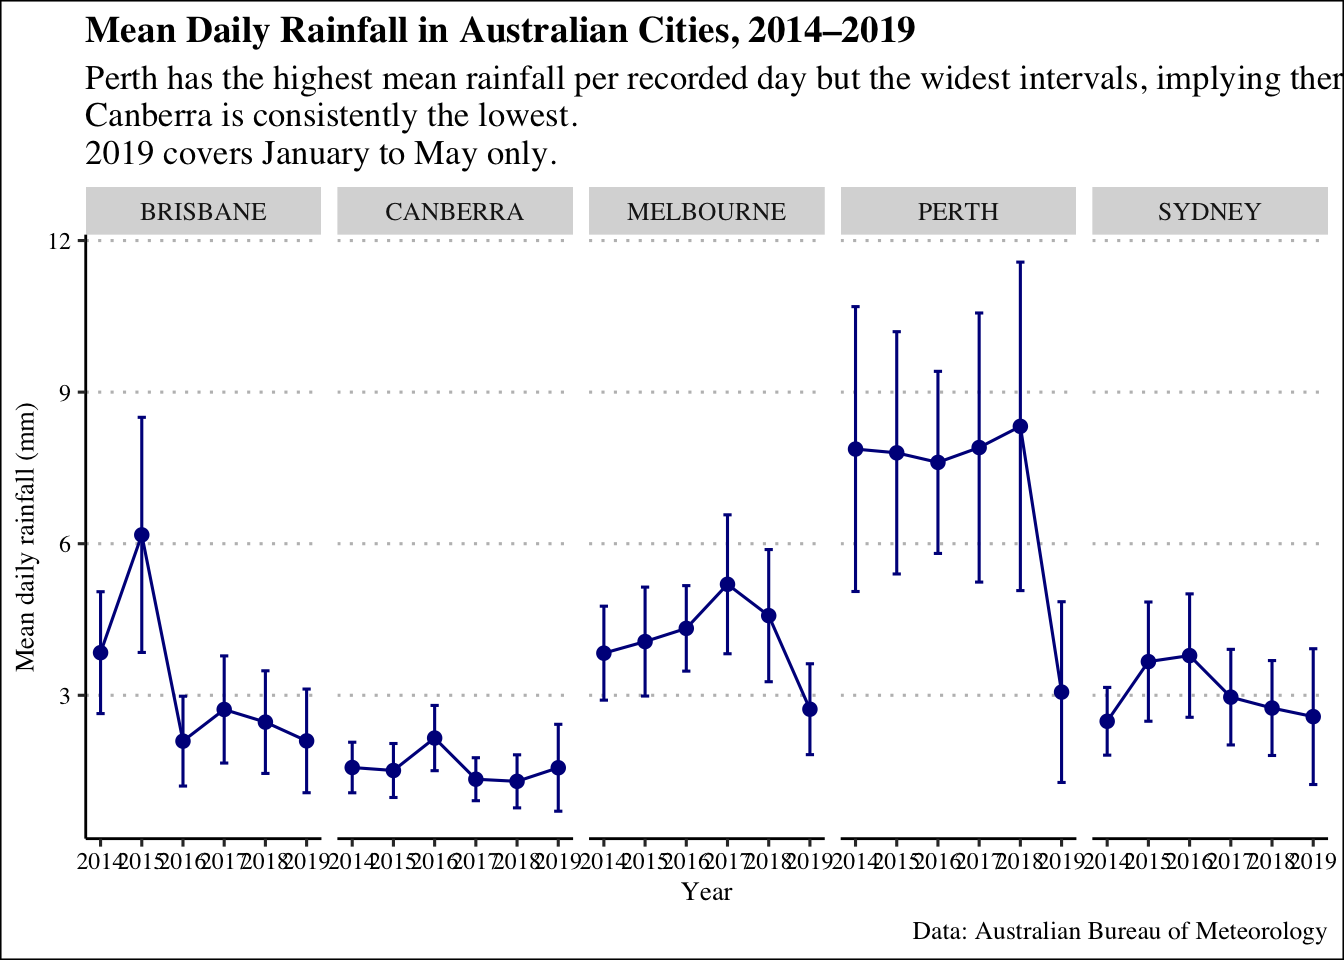
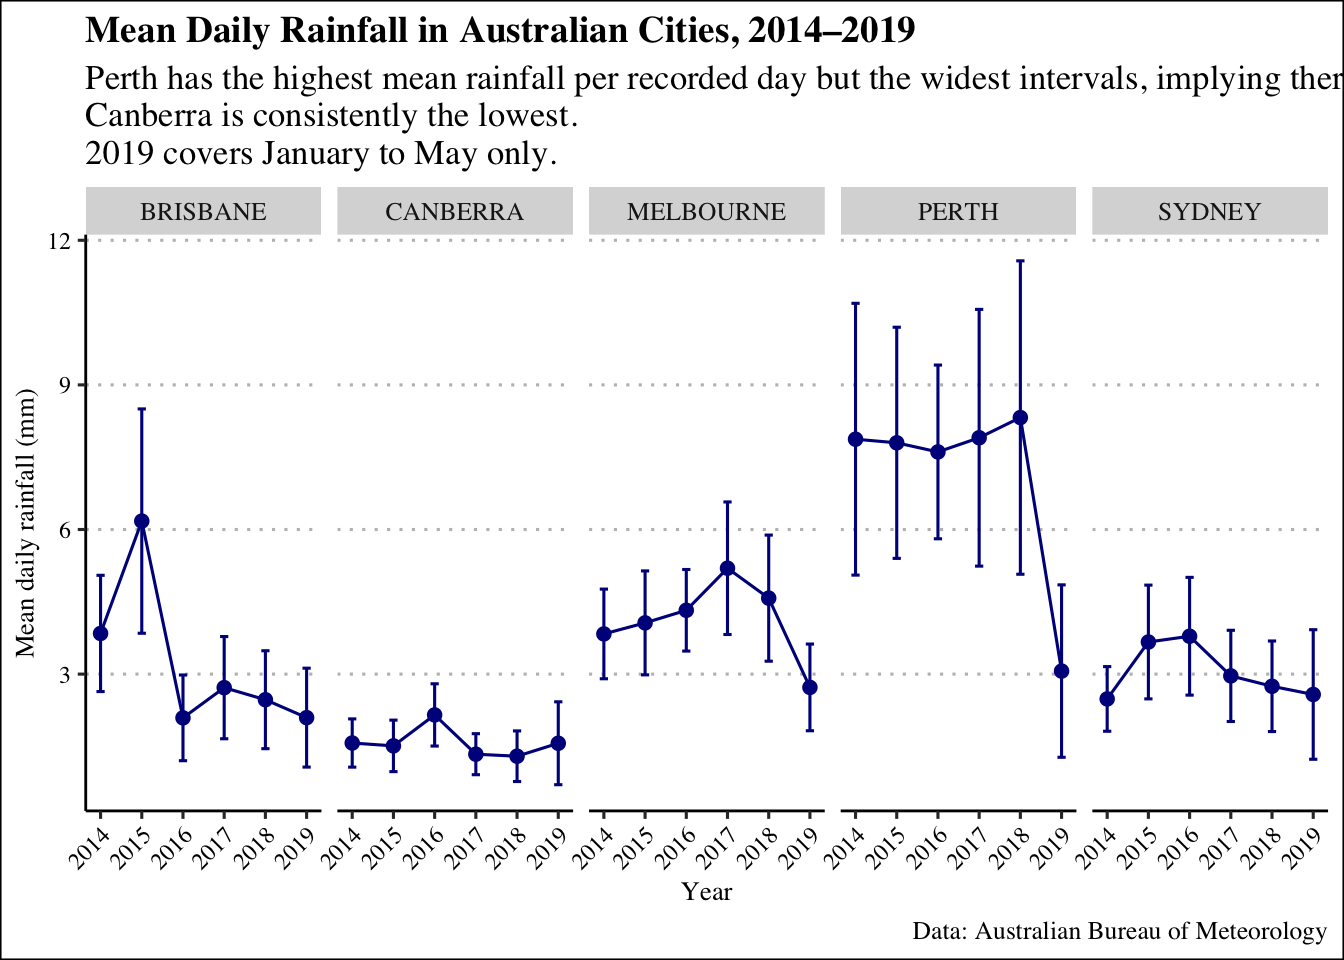
html updated

diff --git a/project2.html b/project2.html
@@ -604,8 +604,8 @@ $ site_name   &lt;chr&gt; "PERTH AIRPORT", "PERTH AIRPORT", "PERTH AIRPORT", "PE
 <span id="cb40-24"><a href="#cb40-24" aria-hidden="true" tabindex="-1"></a>    <span class="fu">theme_clean</span>(<span class="at">base_family =</span> <span class="st">"Times"</span>) <span class="sc">+</span></span>
 <span id="cb40-25"><a href="#cb40-25" aria-hidden="true" tabindex="-1"></a></span>
 <span id="cb40-26"><a href="#cb40-26" aria-hidden="true" tabindex="-1"></a>    <span class="fu">theme</span>(</span>
-<span id="cb40-27"><a href="#cb40-27" aria-hidden="true" tabindex="-1"></a>        <span class="at">plot.title =</span> <span class="fu">element_text</span>(<span class="at">face =</span> <span class="st">"bold"</span>, <span class="at">size =</span> <span class="dv">14</span>,</span>
-<span id="cb40-28"><a href="#cb40-28" aria-hidden="true" tabindex="-1"></a>        <span class="at">axis.text.x =</span> <span class="fu">element_text</span>(<span class="at">angle =</span> <span class="dv">45</span>, <span class="at">hjust =</span> <span class="dv">1</span>))</span>
+<span id="cb40-27"><a href="#cb40-27" aria-hidden="true" tabindex="-1"></a>        <span class="at">plot.title =</span> <span class="fu">element_text</span>(<span class="at">face =</span> <span class="st">"bold"</span>, <span class="at">size =</span> <span class="dv">14</span>),</span>
+<span id="cb40-28"><a href="#cb40-28" aria-hidden="true" tabindex="-1"></a>        <span class="at">axis.text.x =</span> <span class="fu">element_text</span>(<span class="at">angle =</span> <span class="dv">45</span>, <span class="at">hjust =</span> <span class="dv">1</span>)</span>
 <span id="cb40-29"><a href="#cb40-29" aria-hidden="true" tabindex="-1"></a>    )</span></code></pre></div><button title="Copy to Clipboard" class="code-copy-button"><i class="bi"></i></button></div>
 <div class="cell-output-display">
 <div>
